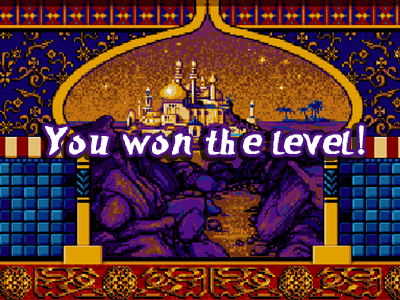
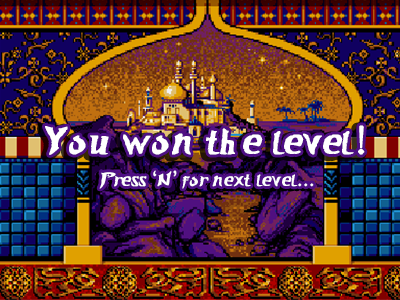
Changed the next level static screen. Press 'n' event.

Changed region(s): [[0.24, 0.54, 0.81, 0.66]]

diff --git a/src/fearlesscode/app/Grafikus.java b/src/fearlesscode/app/Grafikus.java
@@ -307,7 +307,9 @@ public class Grafikus
 		{
 			public void keyPressed(KeyEvent e)
 			{
-				playNext();
+                if(e.getKeyCode() == KeyEvent.VK_N){
+                    playNext();
+                }
 			}
 		});
 	}
